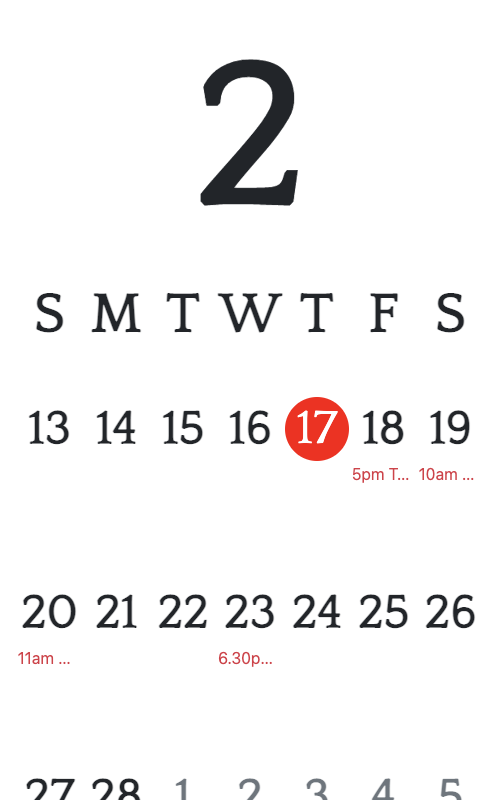
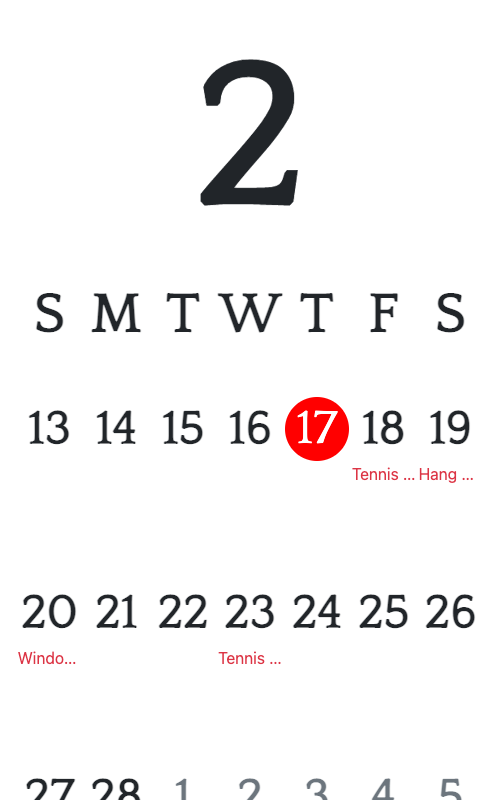
update parameters for smaller screen

diff --git a/render/styles.css b/render/styles.css
@@ -96,7 +96,7 @@ Calendar Styling */
 }
 
 .month {
-    font-size: 13rem;
+    font-size: 7rem;
     font-family: "Quattrocento-Regular";
 }
 
@@ -114,7 +114,7 @@ Calendar Styling */
 }
 
 .calendar .day-names {
-    font-size: 3.5rem;
+    font-size: 2rem;
     line-height: 1.2;
     font-family: "Quattrocento-Regular";
 }
@@ -137,7 +137,7 @@ Calendar Styling */
 
 .calendar .date {
     text-align: center;
-    font-size: 3rem;
+    font-size: 2rem;
     font-weight: bold;
     font-family: "Quattrocento-Regular";
 }
@@ -152,7 +152,7 @@ Calendar Styling */
     height: 4rem;
     border-radius: 2rem;
     font-family: "Quattrocento-Regular";
-    font-size: 3rem;
+    font-size: 2rem;
     color: white;
     line-height: 4rem;
     text-align: center;

diff --git a/render/render.py b/render/render.py
@@ -172,8 +172,7 @@ class RenderHelper:
                 elif event['allday']:
                     cal_events_text += '">' + event['summary']
                 else:
-                    cal_events_text += '">' + self.get_short_time(event['startDatetime'], is24hour) + ' ' + event[
-                        'summary']
+                    cal_events_text += '">' + f"{event['summary'][:10]}.............{self.get_short_time(event['startDatetime'], is24hour)}"
                 cal_events_text += '</div>\n'
             if len(calList[i]) > maxEventsPerDay:
                 cal_events_text += '<div class="event text-muted">' + str(len(calList[i]) - maxEventsPerDay) + ' more'
